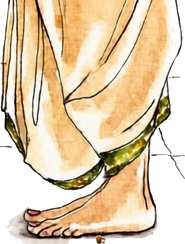
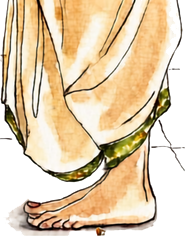
Marigold garlands, copy edits, deadline, Google Form backend

diff --git a/index.html b/index.html
@@ -3,7 +3,7 @@
 <head>
 <meta charset="utf-8">
 <meta name="viewport" content="width=device-width, initial-scale=1">
-<title>Abhijeet &amp; Saloni — RSVP</title>
+<title>Abhijeet &amp; Saloni RSVP</title>
 <meta name="description" content="Kindly let us know if you can join us in Mumbai on 24 & 25 February 2027.">
 <link rel="preconnect" href="https://fonts.googleapis.com">
 <link rel="preconnect" href="https://fonts.gstatic.com" crossorigin>
@@ -21,23 +21,47 @@
     font-family:'Lora',Georgia,'Times New Roman',serif; font-size:17px; line-height:1.6;
     -webkit-font-smoothing:antialiased;
   }
-  .petal{position:fixed; width:256px; height:256px; pointer-events:none; z-index:0; transform-origin:center;
-    animation:drift linear infinite; will-change:transform}
-  @keyframes drift{
-    0%  {transform:translate(0,-8vh)     rotate(0deg)   scale(var(--s,1))}
-    25% {transform:translate(14px,21vh)  rotate(90deg)  scale(var(--s,1))}
-    50% {transform:translate(-10px,50vh) rotate(180deg) scale(var(--s,1))}
-    75% {transform:translate(12px,79vh)  rotate(260deg) scale(var(--s,1))}
-    100%{transform:translate(0,108vh)    rotate(340deg) scale(var(--s,1))}
-  }
-  .petal img{width:100%; height:100%; display:block; filter:drop-shadow(0 2px 3px rgba(60,30,0,.18))}
-  @media (prefers-reduced-motion:reduce){ .petal{display:none} }
+  /* falling marigolds: three nested motions — fall, sway, tumble */
+  .fall{position:fixed; top:-160px; left:0; width:120px; height:120px; pointer-events:none; z-index:0;
+    animation:fall var(--dur,22s) linear var(--delay,0s) infinite; perspective:600px}
+  .sway{width:100%; height:100%; animation:sway var(--sway,5s) ease-in-out var(--delay,0s) infinite alternate;
+    transform-style:preserve-3d}
+  .tumble{width:100%; height:100%; animation:tumble var(--spin,7s) linear var(--delay,0s) infinite;
+    transform-style:preserve-3d}
+  .tumble img{width:100%; height:100%; display:block; object-fit:contain; user-select:none;
+    filter:drop-shadow(0 1px 2px rgba(70,35,5,.2))}
+  .fall.petal{width:60px; height:60px}
+  @keyframes fall{ from{transform:translateY(0)} to{transform:translateY(calc(100vh + 200px))} }
+  @keyframes sway{ from{transform:translateX(calc(-1 * var(--amp,28px)))} to{transform:translateX(var(--amp,28px))} }
+  .fall.bloom .tumble{animation:wobble var(--spin,7s) linear var(--delay,0s) infinite}
+  @keyframes wobble{ from{transform:scale(var(--s,1)) rotate(0deg)}
+                     to{transform:scale(var(--s,1)) rotate(var(--rz,90deg))} }
+  @keyframes tumble{ from{transform:scale(var(--s,1)) rotateX(0) rotateY(0) rotateZ(0)}
+                     to{transform:scale(var(--s,1)) rotateX(var(--rx,360deg)) rotateY(var(--ry,180deg)) rotateZ(var(--rz,90deg))} }
+  @media (prefers-reduced-motion:reduce){ .fall{display:none} }
+  /* ---- garlands ---- */
+  .torana{position:relative; width:100%; height:120px; margin:26px auto 22px; pointer-events:none; overflow:visible; opacity:.72;
+    transform-origin:50% 0; animation:toranaSway 9s ease-in-out infinite alternate}
+  .torana svg{position:absolute; inset:0; width:100%; height:100%; overflow:visible}
+  .torana .bl{position:absolute; transform:translate(-50%,-50%)}
+  .torana .bl img{display:block; width:100%; height:100%; object-fit:contain; filter:drop-shadow(0 2px 2px rgba(60,30,0,.25))}
+  .strand{position:fixed; top:-8px; width:34px; pointer-events:none; z-index:2; transform-origin:50% 0; opacity:.62;
+    animation:strandSway 7s ease-in-out infinite alternate}
+  .strand.l{left:4vw} .strand.r{right:4vw; animation-delay:-3.5s}
+  .strand .bl{position:absolute; left:50%; transform:translateX(-50%)}
+  .strand .bl img{display:block; width:100%; height:100%; object-fit:contain; filter:drop-shadow(0 2px 2px rgba(60,30,0,.25))}
+  .strand .string{position:absolute; left:50%; top:0; width:2px; background:#8a6a3a; opacity:.7; transform:translateX(-50%)}
+  @keyframes toranaSway{ from{transform:rotate(-0.8deg)} to{transform:rotate(0.8deg)} }
+  @keyframes strandSway{ from{transform:rotate(-2.5deg)} to{transform:rotate(2.5deg)} }
+  @media (max-width:760px){ .strand{display:none} }
+  @media (prefers-reduced-motion:reduce){ .torana,.strand{animation:none} }
 
-  .wrap{position:relative; z-index:1; max-width:640px; margin:0 auto; padding:48px 20px 80px}
+
+  .wrap{position:relative; z-index:1; max-width:640px; margin:0 auto; padding:0 20px 80px}
   header{text-align:center}
   .hero{display:flex; justify-content:center; align-items:flex-end; gap:8px; margin-bottom:8px}
   .hero img{max-width:44%; height:auto; display:block}
-  .eyebrow{letter-spacing:.32em; text-transform:uppercase; font-size:12px; color:var(--ink-soft); margin:18px 0 6px}
+  .eyebrow{letter-spacing:.24em; text-transform:uppercase; font-size:12px; line-height:1.9; color:var(--ink-soft); margin:18px auto 8px; max-width:34em; text-wrap:balance}
   h1{font-weight:500; font-size:clamp(34px,7vw,50px); line-height:1.1; margin:0; letter-spacing:.02em}
   h1 .amp{font-style:italic; color:var(--marigold); font-weight:400; margin:0 .12em}
   .date{display:flex; justify-content:center; align-items:center; gap:14px; margin:22px 0 6px;
@@ -108,7 +132,7 @@
 
   @media (max-width:480px){
     body{font-size:16px}
-    .wrap{padding:32px 16px 60px}
+    .wrap{padding:0 16px 60px}
     .hero img{max-width:42%}
     .date{gap:10px; letter-spacing:.2em; font-size:12px}
     .date .day{font-size:17px}
@@ -116,7 +140,6 @@
 </style>
 </head>
 <body>
-
 <!-- drifting marigold petals -->
 <div id="petals" aria-hidden="true"></div>
 
@@ -124,9 +147,9 @@
   <header>
     <div class="hero">
       <img src="images/bride.png" alt="" width="204" height="236">
-      <img src="images/groom.png" alt="" width="185" height="244">
+      <img src="images/groom.png" alt="" width="185" height="236">
     </div>
-    <p class="eyebrow">With joy in our hearts</p>
+    <p class="eyebrow">With joy in our hearts, we invite you<br>to celebrate the union of</p>
     <h1>Abhijeet <span class="amp">&amp;</span> Saloni</h1>
     <div class="date" aria-label="February 24 and 25, 2027">
       <span>February</span><span class="bar"></span>
@@ -136,26 +159,13 @@
     <p class="place">Mumbai, India</p>
   </header>
 
-  <svg class="garland" viewBox="0 0 320 44" aria-hidden="true">
-    <path d="M6 10 C 60 44, 120 44, 160 22 C 200 44, 260 44, 314 10" fill="none" stroke="#6b7145" stroke-width="1.4" stroke-linecap="round"/>
-    <g fill="#d98324">
-      <circle cx="40" cy="27" r="4.5"/><circle cx="80" cy="35" r="4.5"/><circle cx="120" cy="34" r="4.5"/>
-      <circle cx="200" cy="34" r="4.5"/><circle cx="240" cy="35" r="4.5"/><circle cx="280" cy="27" r="4.5"/>
-    </g>
-    <g fill="#a83c22">
-      <circle cx="60" cy="33" r="3.2"/><circle cx="100" cy="36" r="3.2"/><circle cx="140" cy="29" r="3.2"/>
-      <circle cx="180" cy="29" r="3.2"/><circle cx="220" cy="36" r="3.2"/><circle cx="260" cy="33" r="3.2"/>
-    </g>
-    <g fill="none" stroke="#6b7145" stroke-width="1">
-      <path d="M160 22 v9"/><ellipse cx="160" cy="36" rx="3" ry="5"/>
-    </g>
-  </svg>
+  <div id="torana" class="torana" aria-hidden="true"></div>
 
   <p class="intro">
     It would mean the world to us to have you with us in Mumbai as we begin this new chapter together.
-    Do let us know if you can make it — and don't worry about the journey; once you've replied,
+    Do let us know if you can make it, and don't worry about the journey. Once you've replied,
     <strong>we'll personally reach out to help with visas and travel plans.</strong><br>
-    <em>Kindly respond by <strong id="deadline">[date]</strong>.</em>
+    <em>Kindly respond by <strong id="deadline">30 September 2026</strong>.</em>
   </p>
 
   <form id="rsvp" novalidate>
@@ -172,7 +182,7 @@
 
     <div class="q">
       <label class="t" for="phone">Phone / WhatsApp <span class="req">*</span></label>
-      <p class="hint">With country code, please — e.g. +1 734 555 0100</p>
+      <p class="hint">With country code, please (e.g. +1 734 555 0100)</p>
       <input type="tel" id="phone" name="phone" autocomplete="tel" inputmode="tel" required>
     </div>
 
@@ -208,7 +218,7 @@
       </fieldset>
 
       <fieldset class="q">
-        <legend>We'd be delighted to arrange your stay in Mumbai for 23–25 Feb — may we book a room for you?</legend>
+        <legend>We'd be delighted to arrange your stay in Mumbai for 23 to 25 Feb. May we book a room for you?</legend>
         <div class="opts">
           <label class="opt"><input type="radio" name="stay" value="Yes please"><span class="mark"></span><span class="txt">Yes please, that would be lovely</span></label>
           <label class="opt"><input type="radio" name="stay" value="Own arrangement"><span class="mark"></span><span class="txt">Thank you, but I'll arrange my own stay</span></label>
@@ -230,12 +240,12 @@
     </div>
 
     <div class="q">
-      <label class="t" for="message">Anything else we should know — or a message for the happy couple?</label>
+      <label class="t" for="message">A message for the happy couple?</label>
       <textarea id="message" name="message"></textarea>
     </div>
 
     <div class="actions">
-      <button type="submit" id="submit">Send our reply</button>
+      <button type="submit" id="submit">Submit</button>
       <p class="err" id="err">Please fill in your name, email, phone and whether you'll be joining us.</p>
     </div>
   </form>
@@ -257,17 +267,17 @@
   // ---------- Google Form backend ----------
   // 1. Create the Google Form, open its /viewform URL and replace /viewform with /formResponse below.
   // 2. Fill ENTRIES with the real entry.NNNNN ids (from "Get pre-filled link" or the viewform source).
-  const FORM_ACTION = 'https://docs.google.com/forms/d/e/FORM_ID_HERE/formResponse';
+  const FORM_ACTION = 'https://docs.google.com/forms/d/e/1FAIpQLScEv76l19k5BIohCxqcK2W0gvXLVkcSmvih1BrcNMx_R-XWRA/formResponse';
   const ENTRIES = {
-    name:      'entry.0000000001',
-    email:     'entry.0000000002',
-    phone:     'entry.0000000003',
-    attending: 'entry.0000000004',
-    party:     'entry.0000000005',
-    days:      'entry.0000000006',
-    stay:      'entry.0000000007',
-    diet:      'entry.0000000008',   // checkbox: multiple values appended under this one id
-    message:   'entry.0000000009',
+    name:      'entry.249722868',
+    email:     'entry.2037081868',
+    phone:     'entry.608256716',
+    attending: 'entry.518207018',
+    party:     'entry.2029901294',
+    days:      'entry.830737050',
+    stay:      'entry.202384910',
+    diet:      'entry.1644431358',   // checkbox: multiple values appended under this one id
+    message:   'entry.1602937617',
   };
 
   // ---------- conditional logic ----------
@@ -318,33 +328,100 @@
       text.textContent  = "Your reply is safely with us. We'll be in touch personally soon to help with visas, travel and everything in between.";
     } else {
       title.textContent = `We'll miss you${first ? ', ' + first : ''}`;
-      text.textContent  = "Thank you for letting us know — you'll be in our thoughts on the day, and we hope to celebrate with you soon.";
+      text.textContent  = "Thank you for letting us know. You'll be in our thoughts on the day, and we hope to celebrate with you soon.";
     }
     form.style.display = 'none';
     document.getElementById('thanks').style.display = 'block';
     window.scrollTo({ top:0, behavior:'smooth' });
   });
 
+
+  const BLOOMS = ['images/marigold-gold.png','images/marigold-orange.png','images/marigold-gold-m.png','images/marigold-orange-m.png'];
+  // ---------- garlands ----------
+  {
+    const LEAF = (flip) => '<svg viewBox="0 0 40 24" width="100%" height="100%"' + (flip ? ' style="transform:scaleX(-1)"' : '') + '>' +
+      '<path d="M20 12 C 14 4, 4 4, 1 8 C 4 14, 14 14, 20 12 Z" fill="#6b7145"/>' +
+      '<path d="M20 12 C 26 4, 36 4, 39 8 C 36 14, 26 14, 20 12 Z" fill="#7d8452"/>' +
+      '<circle cx="20" cy="12" r="3.2" fill="#8c1d2c"/></svg>';
+    const bloomEl = (src, size, x, y) => {
+      const d = document.createElement('div'); d.className = 'bl';
+      d.style.width = d.style.height = size + 'px'; d.style.left = x + 'px'; d.style.top = y + 'px';
+      const img = new Image(); img.src = src; img.alt = ''; img.draggable = false; d.appendChild(img); return d;
+    };
+    const leafEl = (x, y, ang, w) => {
+      const d = document.createElement('div'); d.className = 'bl';
+      d.style.width = w + 'px'; d.style.height = (w*0.6) + 'px'; d.style.left = x + 'px'; d.style.top = y + 'px';
+      d.style.transform = 'translate(-50%,-50%) rotate(' + ang + 'deg)'; d.innerHTML = LEAF(false); return d;
+    };
+    // --- top torana: a draped string of blooms ---
+    const torana = document.getElementById('torana');
+    function buildTorana(){
+      torana.innerHTML = '';
+      const W = torana.clientWidth, H = torana.clientHeight;
+      const yEnd = 4, yPeak = 30, sag = Math.min(52, W*0.09);
+      // two swags: each hangs between an end (high) and the centre peak
+      const curve = t => { const u = t < 0.5 ? t*2 : (1-t)*2; return { x: t*W, y: yEnd*(1-u) + yPeak*u + sag*4*u*(1-u) }; };
+      const pts = []; for (let i = 0; i <= 80; i++){ const p = curve(i/80); pts.push(p.x.toFixed(1) + ',' + p.y.toFixed(1)); }
+      const cx = W/2;
+      torana.insertAdjacentHTML('beforeend', '<svg><polyline points="' + pts.join(' ') + '" fill="none" stroke="#6b7145" stroke-width="1.6" stroke-linejoin="round"/>' +
+        '<line x1="' + cx + '" y1="' + yPeak + '" x2="' + cx + '" y2="' + (yPeak + 34) + '" stroke="#6b7145" stroke-width="1.2"/></svg>');
+      const size = W < 520 ? 18 : 22, step = size*0.95;
+      let L = 0, prev = curve(0); const samples = [];
+      for (let i = 1; i <= 600; i++){ const p = curve(i/600); L += Math.hypot(p.x-prev.x, p.y-prev.y); samples.push([L, i/600]); prev = p; }
+      const n = Math.floor(L/step);
+      for (let k = 0; k <= n; k++){
+        const target = k*step + (L - n*step)/2;
+        const t = (samples.find(sm => sm[0] >= target) || samples[samples.length-1])[1];
+        const p = curve(t);
+        if (Math.abs(t - 0.5) < 0.02) continue;                     // leave the peak clear for the pendant
+        if (k % 3 === 1){ const q = curve(t + 0.004); const ang = Math.atan2(q.y - p.y, q.x - p.x)*180/Math.PI; torana.appendChild(leafEl(p.x, p.y, ang, size*1.25)); }
+        else torana.appendChild(bloomEl(BLOOMS[(k*7) % BLOOMS.length], size*(0.9 + 0.2*((k*13)%5)/5), p.x, p.y));
+      }
+      // pendant bloom hanging from the peak
+      torana.appendChild(bloomEl(BLOOMS[1], size*1.25, cx, yPeak + 34 + size*0.55));
+    }
+    buildTorana(); let rt; window.addEventListener('resize', () => { clearTimeout(rt); rt = setTimeout(buildTorana, 150); });
+    // --- hanging strands at the sides ---
+    ['l','r'].forEach((side, si) => {
+      const st = document.createElement('div'); st.className = 'strand ' + side;
+      const size = 28, step = 27, count = 11;
+      const str = document.createElement('div'); str.className = 'string'; str.style.height = (count*step + 10) + 'px'; st.appendChild(str);
+      for (let k = 0; k < count; k++){
+        const y = 8 + k*step;
+        if (k % 4 === 3){ const lf = leafEl(17, y + 6, 0, size*1.3); lf.style.transform = 'translate(-50%,-50%)'; st.appendChild(lf); }
+        else st.appendChild(bloomEl(BLOOMS[(k*5 + si) % BLOOMS.length], size*(0.9 + 0.2*((k*3)%3)/3), 17 - size/2, y));
+      }
+      // strand blooms are positioned by left/top only
+      st.querySelectorAll('.bl').forEach(b => { if (!b.innerHTML.startsWith('<svg')) { b.style.left = '50%'; b.style.transform = 'translateX(-50%)'; } });
+      document.body.appendChild(st);
+    });
+  }
+
   // ---------- falling marigolds ----------
   if (!window.matchMedia('(prefers-reduced-motion: reduce)').matches){
     const holder = document.getElementById('petals');
-    // watercolor PNGs: two bloom tones, two loose-petal tones
-    const cast = [];
-    for (let i = 0; i < 9; i++) cast.push({ src:'images/marigold-' + (1 + i%2) + '.png', lo:0.14, hi:0.30 });
-    for (let i = 0; i < 6; i++) cast.push({ src:'images/petal-'    + (1 + i%2) + '.png', lo:0.18, hi:0.30 });
-    cast.forEach(item => {
-      const d = document.createElement('div');
-      d.className = 'petal';
-      const img = new Image();
-      img.src = item.src; img.alt = ''; img.draggable = false;
-      d.appendChild(img);
-      d.style.left = Math.random()*100 + 'vw';
-      d.style.animationDuration = (16 + Math.random()*14) + 's';
-      d.style.animationDelay = (-Math.random()*30) + 's';
-      d.style.setProperty('--s', (item.lo + Math.random()*(item.hi - item.lo)).toFixed(2));
-      d.style.opacity = (0.55 + Math.random()*0.30).toFixed(2);
-      holder.appendChild(d);
-    });
+    const R = (a, b) => a + Math.random()*(b - a);
+    const make = (src, isPetal) => {
+      const fall = document.createElement('div'); fall.className = 'fall ' + (isPetal ? 'petal' : 'bloom');
+      const sway = document.createElement('div'); sway.className = 'sway';
+      const tum  = document.createElement('div'); tum.className  = 'tumble';
+      const img  = new Image(); img.src = src; img.alt = ''; img.draggable = false;
+      tum.appendChild(img); sway.appendChild(tum); fall.appendChild(sway);
+      const dur = isPetal ? R(16, 26) : R(20, 34);
+      fall.style.left = R(-3, 97) + 'vw';
+      fall.style.setProperty('--dur',  dur.toFixed(1) + 's');
+      fall.style.setProperty('--delay', (-R(0, dur)).toFixed(1) + 's');
+      fall.style.setProperty('--sway', R(3.5, 6.5).toFixed(1) + 's');
+      fall.style.setProperty('--amp',  R(6, 16).toFixed(0) + 'px');
+      fall.style.setProperty('--spin', (isPetal ? R(4, 7) : R(14, 30)).toFixed(1) + 's');
+      fall.style.setProperty('--s',    (isPetal ? R(0.55, 0.85) : R(0.10, 0.30)).toFixed(2));
+      fall.style.setProperty('--rx',   (isPetal ? R(200, 420) : R(30, 80)).toFixed(0) + 'deg');
+      fall.style.setProperty('--ry',   (isPetal ? R(120, 300) : R(220, 360)).toFixed(0) + 'deg');
+      fall.style.setProperty('--rz',   (Math.random() < 0.5 ? 360 : -360) + 'deg');
+      fall.style.opacity = R(0.35, 0.55).toFixed(2);
+      holder.appendChild(fall);
+    };
+    for (let i = 0; i < 14; i++) make(BLOOMS[i % 4], false);
   }
 </script>
 </body>
